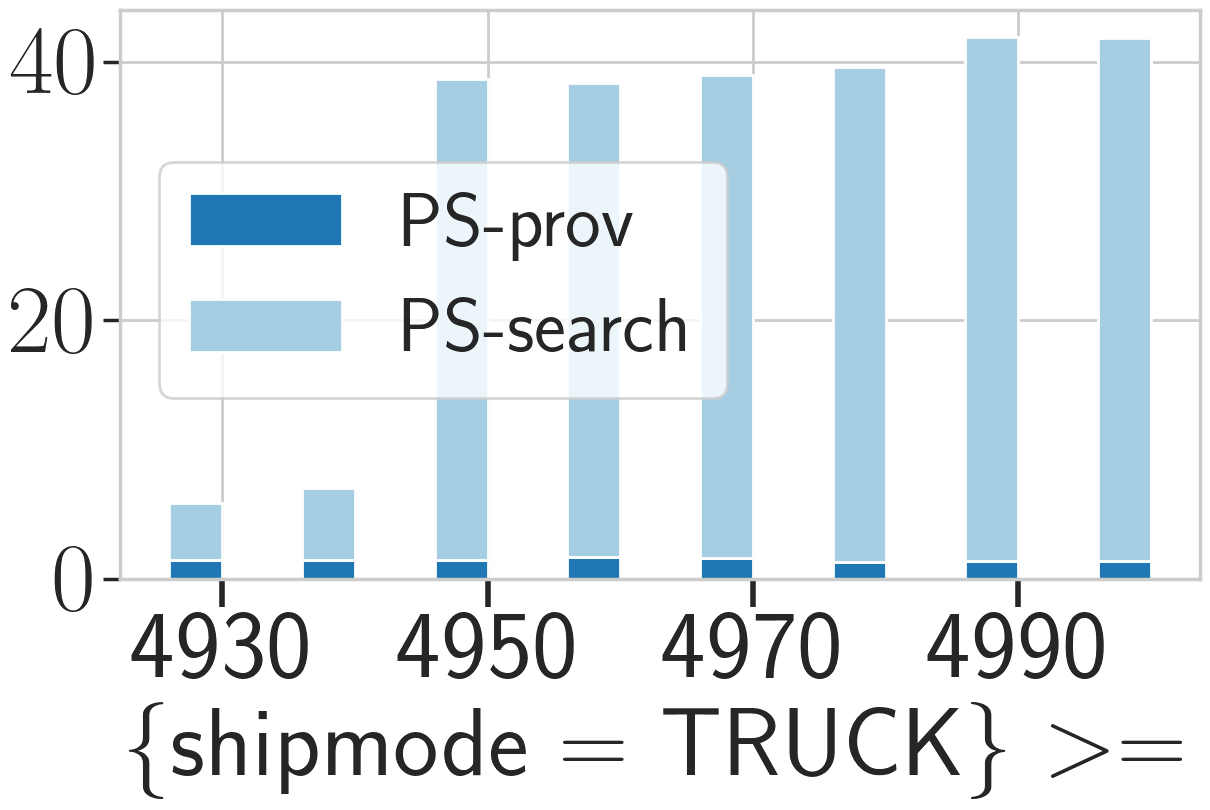
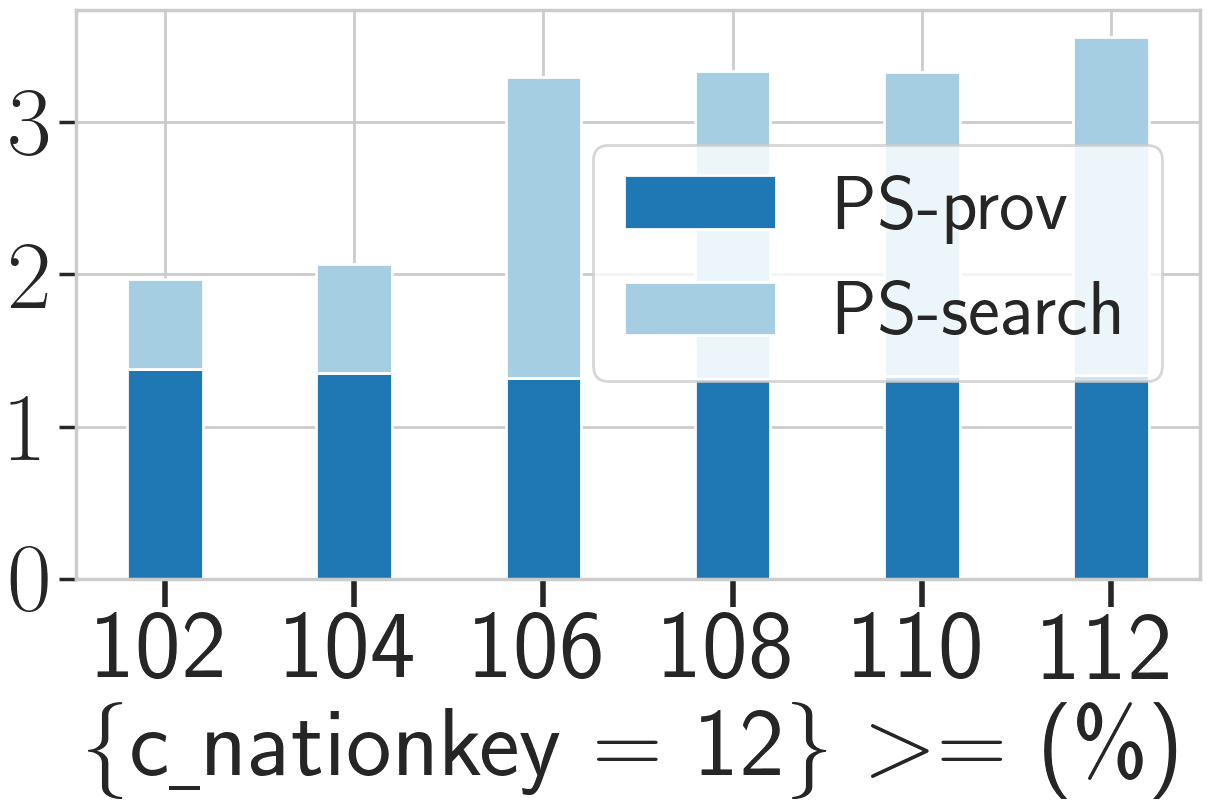
100M q3 refine constraint change

diff --git a/Experiment/TPCH/100M/constraint_change/q3_refine/fig.py b/Experiment/TPCH/100M/constraint_change/q3_refine/fig.py
@@ -58,7 +58,7 @@ def run(query, size, constraint):
             execution_timebl1.append(0)
             execution_timebl2.append(0)
     # x_list = [19941230, 19950115, 19950130, 19950215, 19950230, 19950315, 19950330, 19950415]
-    x_list = [4930, 4950, 4970, 4990]
+    x_list = [102, 104, 106, 108, 110, 112]
 
     print(x_list, execution_timeps1, execution_timeps2)
 
@@ -81,12 +81,12 @@ def run(query, size, constraint):
     #         color=color[3], label=label[3])
     #
 
-    plt.xticks(np.arange(0, 8, 2) + bar_width/2, x_list, rotation=0, fontsize=70)
+    plt.xticks(np.arange(0, 6), x_list, rotation=0, fontsize=70)
     plt.yticks(fontsize=70, weight='bold')
 
-    plt.xlabel(r'\{shipmode = TRUCK\} $>=$')
+    plt.xlabel(r'\{c\underline{ }nationkey = 12\} $>=$ (\%)')
     # plt.ylabel('Running time (s)')
-    plt.legend(loc='upper left', bbox_to_anchor=(0.0, 0.8), fontsize=55)
+    plt.legend(loc='upper right', bbox_to_anchor=(1.0, 0.83), fontsize=55)
     # plt.legend(loc="best", fontsize=55)
     plt.tight_layout()
     fig_path = "constraint_change_q" + str(query) + "_" + size + "_" + constraint + ".png"

diff --git a/Experiment/TPCH/100M/constraint_change/q3_refine/constraint_change_q3_refine.py b/Experiment/TPCH/100M/constraint_change/q3_refine/constraint_change_q3_refine.py
@@ -41,7 +41,7 @@ def run_constraint(q, c):
     result_output = open(result_output_file, "w")
     result_output.write("selection file, result\n")
 
-    for i in range(1, 9):
+    for i in range(1, 7):
         print("constraint {}\n".format(i))
         constraint_file = r"./constraint_" + c + str(i) + ".json"
         print("========================== provenance search ===================================")
@@ -60,8 +60,9 @@ def run_constraint(q, c):
         #     print("naive alg out of time with {} time limit".format(time_limit))
         # else:
         #     print("running time = {}".format(running_time2))
+        #
+        # print(*minimal_refinements2, sep="\n")
 
-        print(*minimal_refinements1, sep="\n")
         result_output.write("\n")
         idx = i
         if running_time2 < time_limit:
